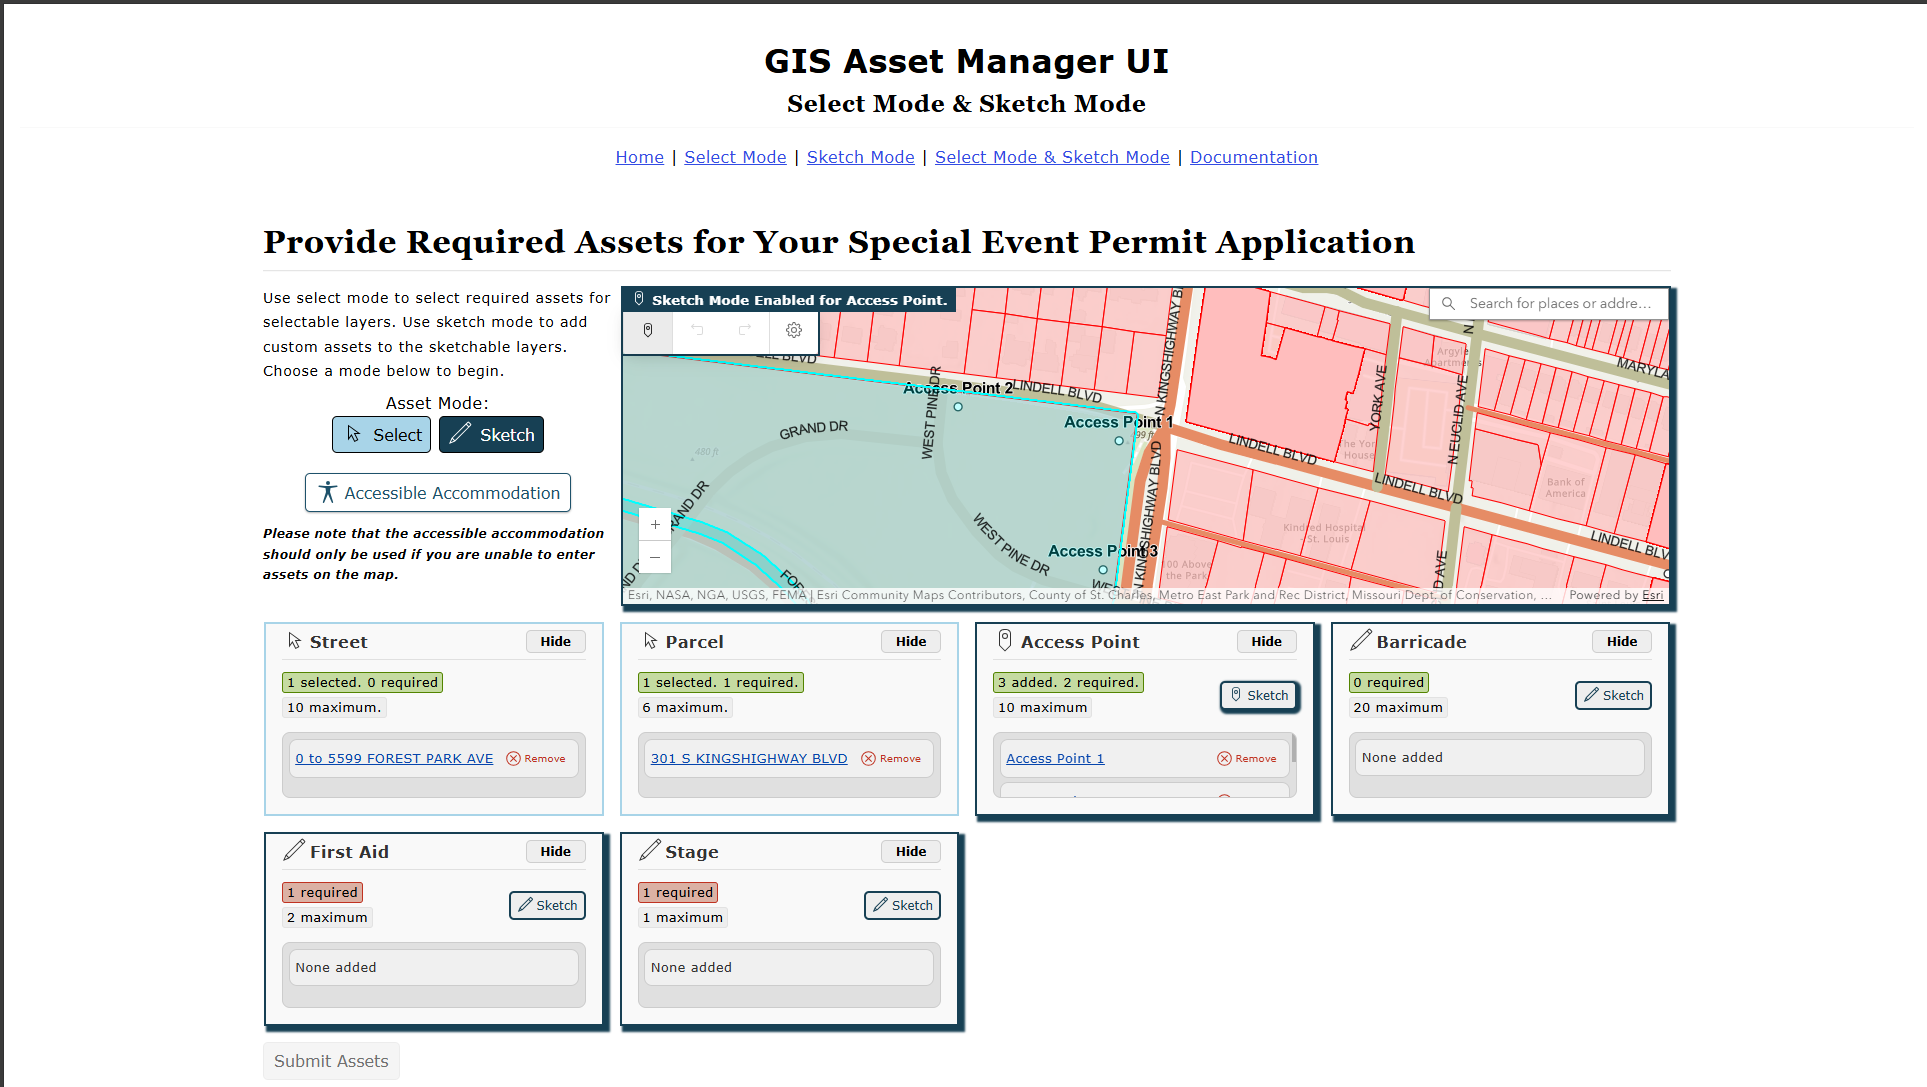
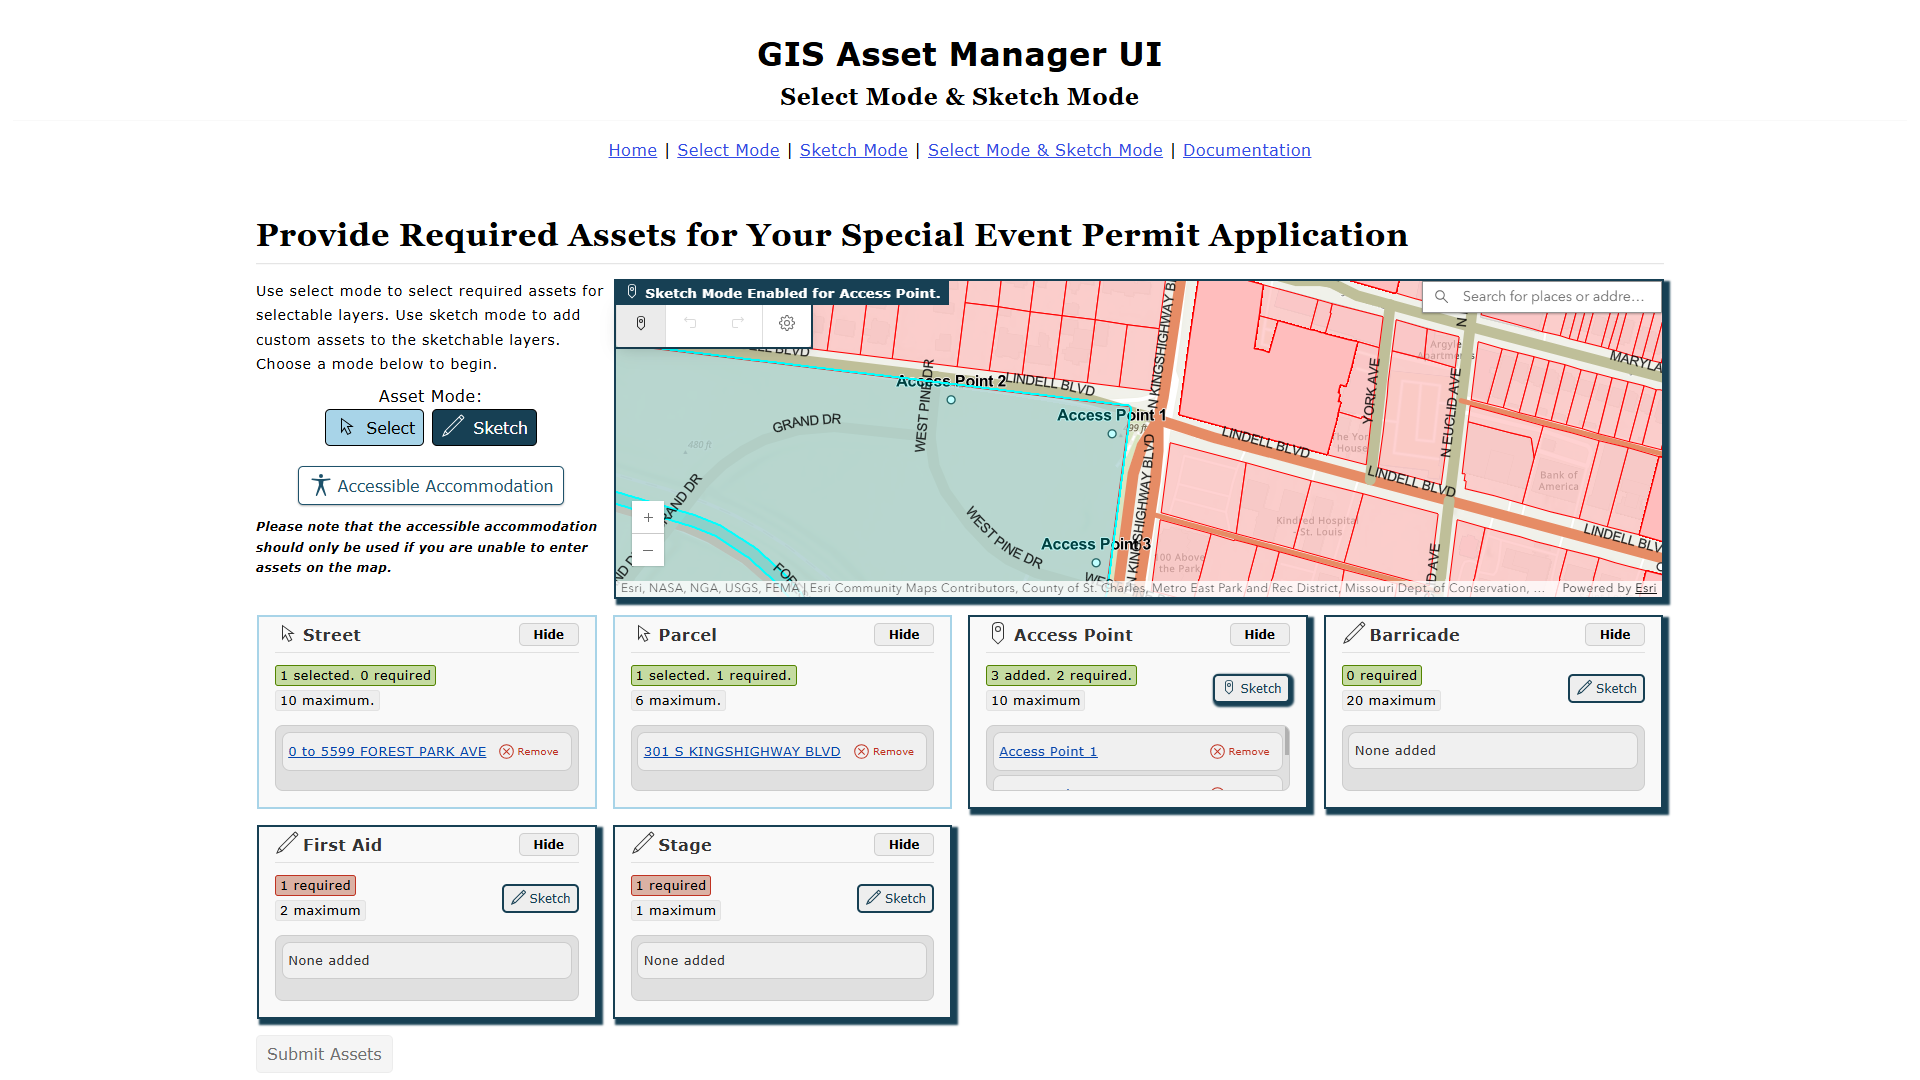
crop asset manager images, style mobile full screen images

Changed region(s): [[0.125, 0.1833, 0.875, 1.0], [0.0, 0.0, 1.0, 0.1528]]

diff --git a/ui/mobile-image-carousel.tsx b/ui/mobile-image-carousel.tsx
@@ -141,7 +141,7 @@ export default function MobileImageCarousel(props: PropType) {
           <PrevButton onClick={onPrevButtonClick} disabled={prevBtnDisabled} />
         </div>
         <div
-          className="embla__viewport rounded-2xl border-4 border-zinc-900 bg-zinc-800 shadow-md  shadow-zinc-200/50"
+          className="embla__viewport rounded-2xl border-4 border-zinc-900 bg-zinc-800 shadow-md shadow-zinc-200/50"
           ref={emblaRef}>
           <div className="embla__container">
             <div className="embla__controls"></div>
@@ -212,19 +212,21 @@ export default function MobileImageCarousel(props: PropType) {
               <RiCloseFill size={32} />
             </button>
 
-            {/* CHANGED: Full screen image display */}
-            {fullscreenImage && !fullscreenImage.match(/\.(mp4|webm|ogg)$/) && (
-              <Image
-                src={fullscreenImage}
-                alt="Fullscreen view"
-                width={1080}
-                height={1938}
-                className="max-w-full max-h-full object-contain"
-                {...(fullscreenImage.endsWith(".gif")
-                  ? { unoptimized: true }
-                  : {})}
-              />
-            )}
+            {/* CHANGED: Wrapped Image in div with viewport constraints */}
+{fullscreenImage && !fullscreenImage.match(/\.(mp4|webm|ogg)$/) && (
+  <div className="rounded-2xl border-4 border-zinc-900 bg-zinc-800 shadow-md shadow-zinc-200/50 overflow-hidden max-w-[90vw] max-h-[90vh] flex items-center justify-center">
+    <Image
+      src={fullscreenImage}
+      alt="Fullscreen view"
+      width={1080}
+      height={1938}
+      className="w-full h-full object-contain"
+      {...(fullscreenImage.endsWith(".gif")
+        ? { unoptimized: true }
+        : {})}
+    />
+  </div>
+)}
           </DialogPanel>
         </div>
       </Dialog>

diff --git a/lib/projects.ts b/lib/projects.ts
@@ -60,11 +60,11 @@ export const projects = [
       ],
       desktop: [
         "/images/gis-asset-manager/desktop/select.png",
-        // "/images/gis-asset-manager/desktop/.png",
+        "/images/gis-asset-manager/desktop/select-valid.png",
+        "/images/gis-asset-manager/desktop/sketch.png",
         "/images/gis-asset-manager/desktop/select-sketch.png",
-        // "/images/gis-asset-manager/desktop/.png",
-        // "/images/gis-asset-manager/desktop/.png",
-        // "/images/gis-asset-manager/desktop/.png",
+        "/images/gis-asset-manager/desktop/select-sketch2.png",
+        "/images/gis-asset-manager/desktop/select-sketch3.png",
         // "/images/gis-asset-manager/desktop/.png",
       ],
     },
